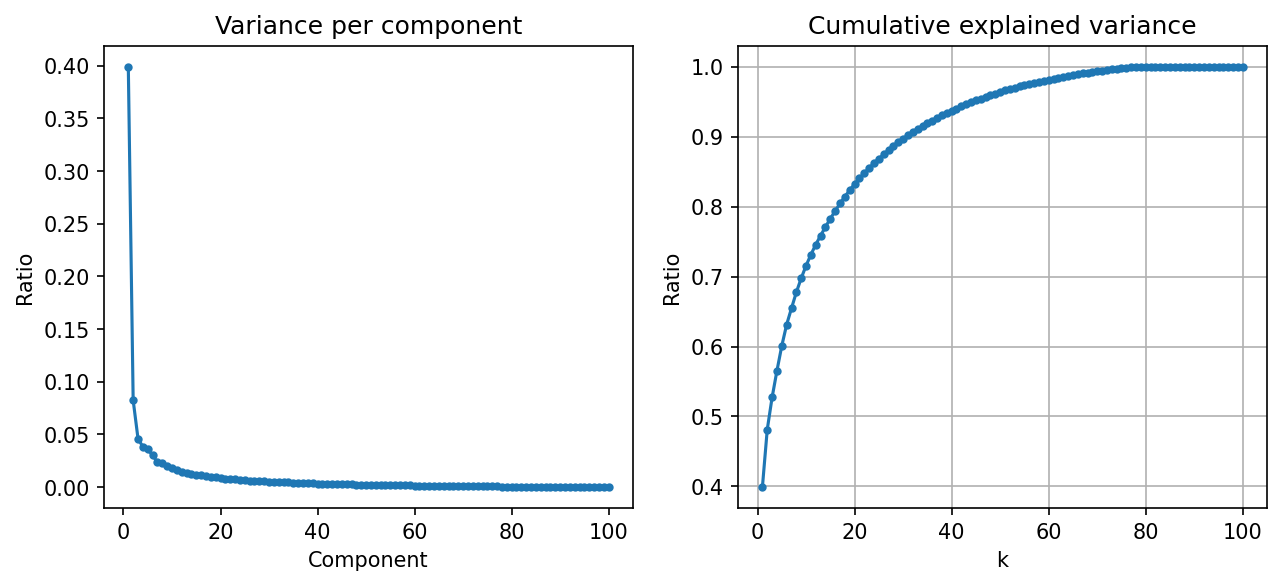
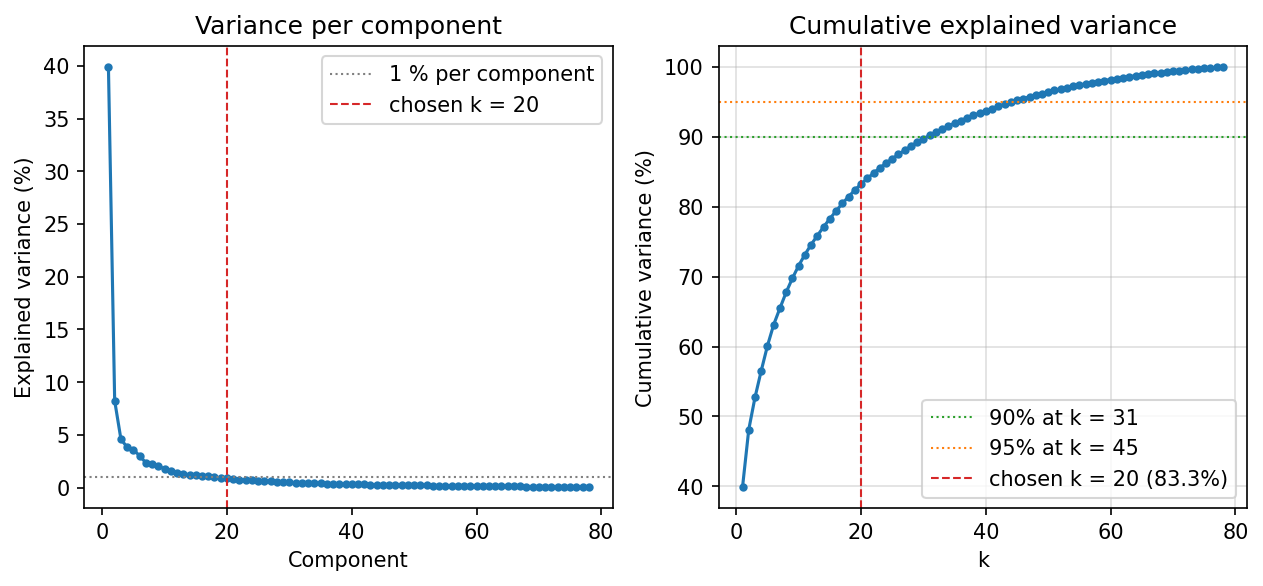
update pca_steps

diff --git a/task2/pca/pca_steps.py b/task2/pca/pca_steps.py
@@ -127,16 +127,36 @@ def save_components_image(outdir, components, side, n=10):
     plt.close(fig)
 
 
-def save_variance_plot(outdir, eigenvalues):
-    """Save per-component and cumulative explained variance."""
+def save_variance_plot(outdir, eigenvalues, k, thresholds=(0.90, 0.95)):
+    """Save per-component and cumulative explained variance.
+
+    Only non-zero components are shown (at most N - 1 for N images).
+    The chosen k and the variance thresholds are marked on the plots.
+    """
     ratio = explained_variance_ratio(eigenvalues)
-    n = min(len(ratio), 100)
+    n = min(int(np.sum(ratio > 1e-10)), 100)
+    cum = np.cumsum(ratio)
+    ks = np.arange(1, n + 1)
     fig, ax = plt.subplots(1, 2, figsize=(10, 4))
-    ax[0].plot(range(1, n + 1), ratio[:n], "o-", ms=3)
-    ax[0].set(title="Variance per component", xlabel="Component", ylabel="Ratio")
-    ax[1].plot(range(1, n + 1), np.cumsum(ratio)[:n], "o-", ms=3)
-    ax[1].set(title="Cumulative explained variance", xlabel="k", ylabel="Ratio")
-    ax[1].grid(True)
+
+    ax[0].plot(ks, ratio[:n] * 100, "o-", ms=3)
+    ax[0].axhline(1, color="gray", ls=":", lw=1, label="1 % per component")
+    ax[0].axvline(k, color="C3", ls="--", lw=1, label=f"chosen k = {k}")
+    ax[0].set(title="Variance per component", xlabel="Component",
+              ylabel="Explained variance (%)")
+    ax[0].legend()
+
+    ax[1].plot(ks, cum[:n] * 100, "o-", ms=3)
+    for t, color in zip(thresholds, ("C2", "C1")):
+        k_t = int(np.argmax(cum >= t)) + 1
+        ax[1].axhline(t * 100, color=color, ls=":", lw=1,
+                      label=f"{t:.0%} at k = {k_t}")
+    ax[1].axvline(k, color="C3", ls="--", lw=1,
+                  label=f"chosen k = {k} ({cum[k - 1]:.1%})")
+    ax[1].set(title="Cumulative explained variance", xlabel="k",
+              ylabel="Cumulative variance (%)")
+    ax[1].grid(True, alpha=0.4)
+    ax[1].legend(loc="lower right")
     fig.savefig(os.path.join(outdir, "explained_variance.png"),
                 dpi=150, bbox_inches="tight")
     plt.close(fig)
@@ -168,7 +188,7 @@ def save_all(outdir, X, result, k):
     save_arrays(outdir, result)
     save_summary(outdir, X, result, k)
     save_components_image(outdir, result["components"], side)
-    save_variance_plot(outdir, result["eigenvalues"])
+    save_variance_plot(outdir, result["eigenvalues"], k)
     save_reconstructions(outdir, X, result, side, ks)
 
 
